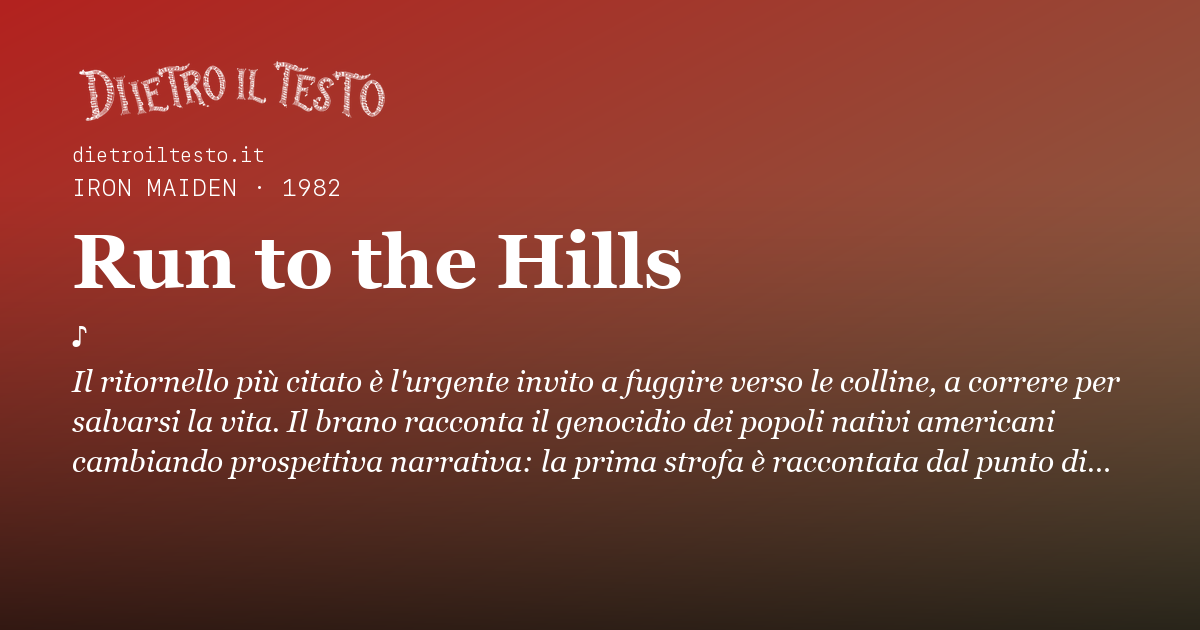
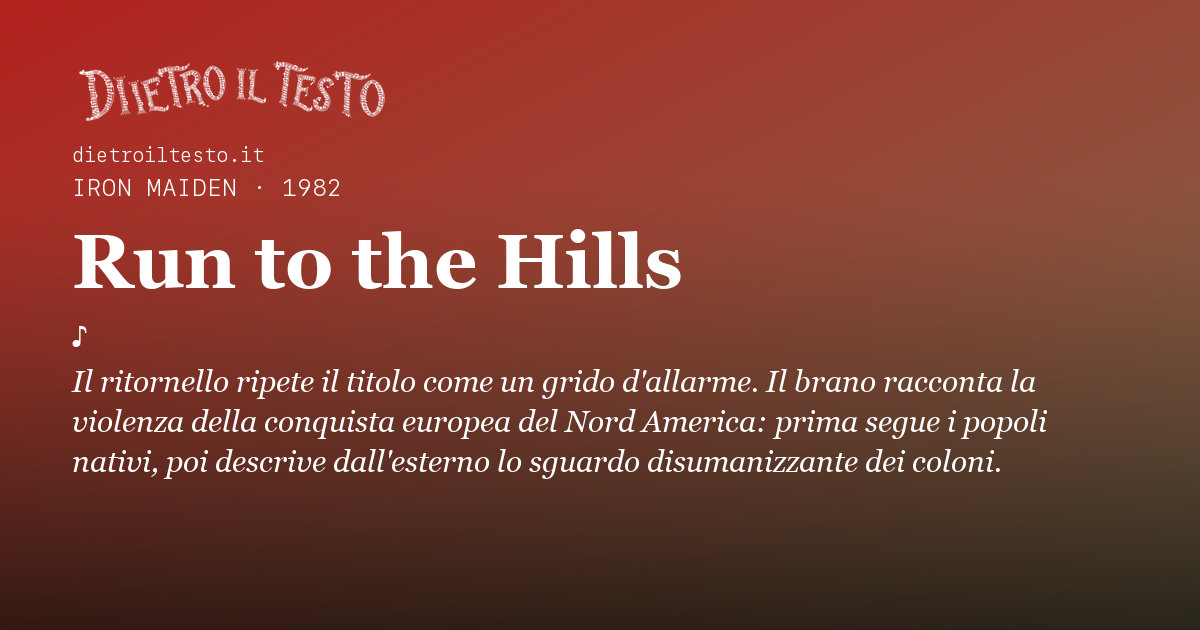
fix: correggi racconto e anteprima di Run to the Hills

Changed region(s): [[0.0617, 0.573, 0.925, 0.754]]

diff --git a/ROADMAP.md b/ROADMAP.md
@@ -4149,3 +4149,13 @@ Il proprietario ha scritto «Confermo la pubblicazione». Inviato al ramo `main`
 **Limiti conservati.** Il browser interno verifica la creazione dell'iframe Spotify pubblico ma ne mostra il contenuto vuoto; la prova Chrome della stessa versione prima della pubblicazione resta al §28. Nessuna verifica della riproduzione integrale o dell'uscita acustica. Non sono stati controllati in rete tutti i link esterni. Un controllo aggiuntivo su `/ricerca.json` ha restituito il 404 atteso per un file inesistente e non utilizzato; l'indice effettivo è in `ricerca.js`.
 
 **Stato: lotto approvato pubblicato e controllato.** Catalogo e verifica editoriale invariati; il file non tracciato SEO-LASTMOD è preservato. Le altre proposte fotografiche, le nuove schede e il lavoro editoriale dell'altra AI restano separati. Nessun uso di GSC. Il rapporto e questo aggiornamento sono conservati in un commit locale successivo, senza un secondo invio alla produzione.
+
+## Proposta separata del 30 settembre 2026 — «Run to the Hills»
+
+**Problema.** La frase iconica pubblicata traduce parte del ritornello, in contrasto con P3, e collega il brano a Colombo e agli Arawak nei Caraibi senza sostegno nelle fonti. Il corpo inoltre inverte l'ordine dei punti di vista. La verifica indipendente ha segnalato anche un aneddoto tratto da una fonte non elencata.
+
+**Intervento.** In una copia separata, riscritti i due paragrafi e la frase iconica con parole originali, mantenendo il contesto verificabile della colonizzazione europea del Nord America. La sequenza narrativa e il piazzamento britannico sono stati ricontrollati su [American Songwriter, Bryan Reesman](https://americansongwriter.com/the-anti-colonialist-message-in-the-meaning-behind-iron-maidens-run-to-the-hills/); l'aneddoto dei doni e il ruolo del tour su [Metal Hammer, Joe Daly](https://www.loudersound.com/features/iron-maiden-story-behind-run-to-the-hills), ora citata nella scheda. Tolti il motivo attribuito alla donatrice e il primato di classifica non dimostrati dalle fonti pubblicate. Aggiunta una descrizione SEO che nomina brano e artista. Rigenerata l'immagine di condivisione, perché mostra la frase iconica.
+
+**Prove.** Generazione di 687 pagine, `check-seo` su 688 pagine, `check-coerenza`, `check-link`, `check-attribuzioni --tutte`, `check-nature` e `git diff --check` senza errori pertinenti. L'immagine `og/run-to-the-hills.png` è stata ispezionata e coincide byte per byte con quella copiata nel sito generato. Nell'anteprima browser il riquadro corretto e le nuove fonti sono visibili; a 390 px nessuna fuoriuscita orizzontale né errore di console. Catalogo invariato: 317 canzoni, 104 artisti, 251 album.
+
+**Limiti.** Intervento circoscritto ai rilievi immediati: gli altri punti del rapporto indipendente, fra cui Spotify, conteggio degli ascolti e fonte relativa, richiedono un riesame successivo. `ultimaVerifica` non cambia, perché la scheda intera non è stata riverificata. Nessuna modifica alla cartella principale, push o pubblicazione.
